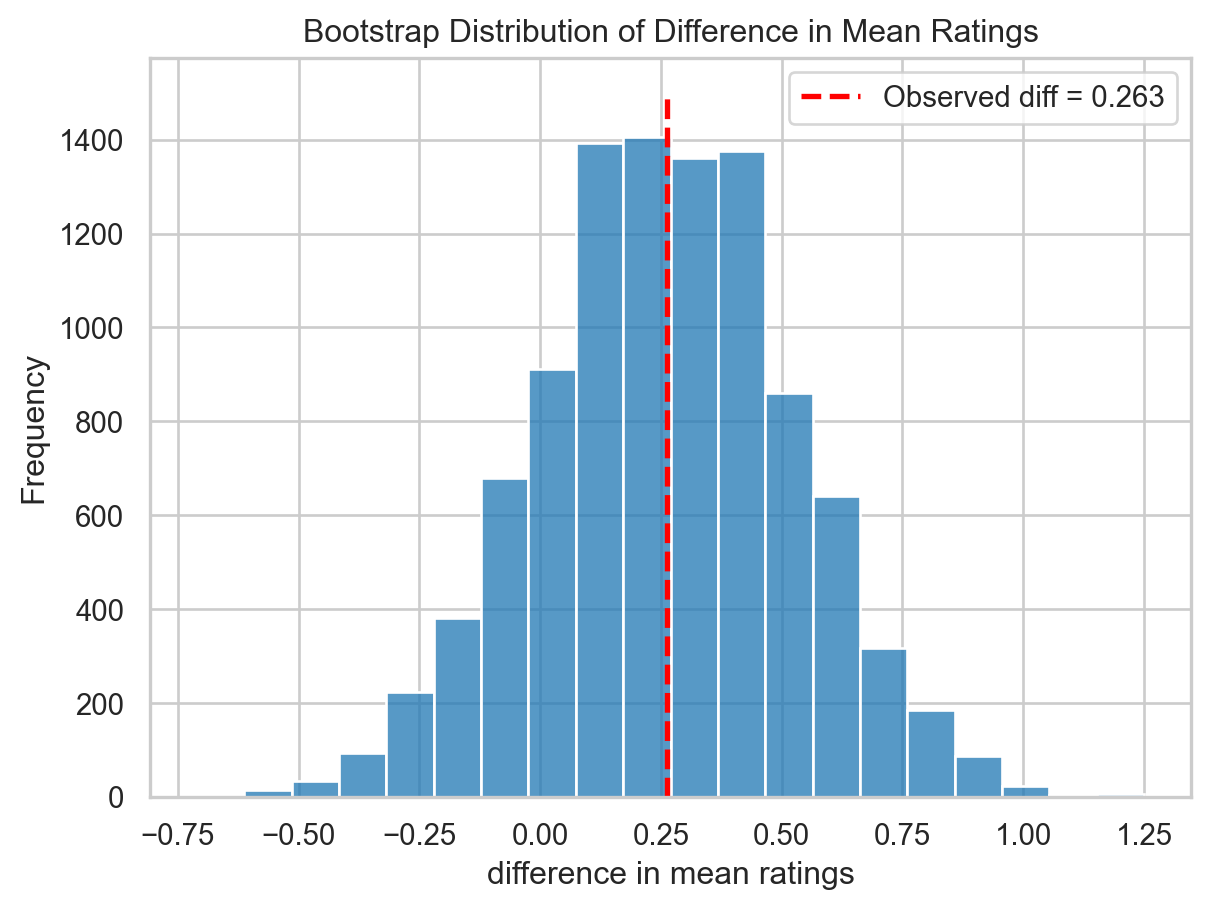
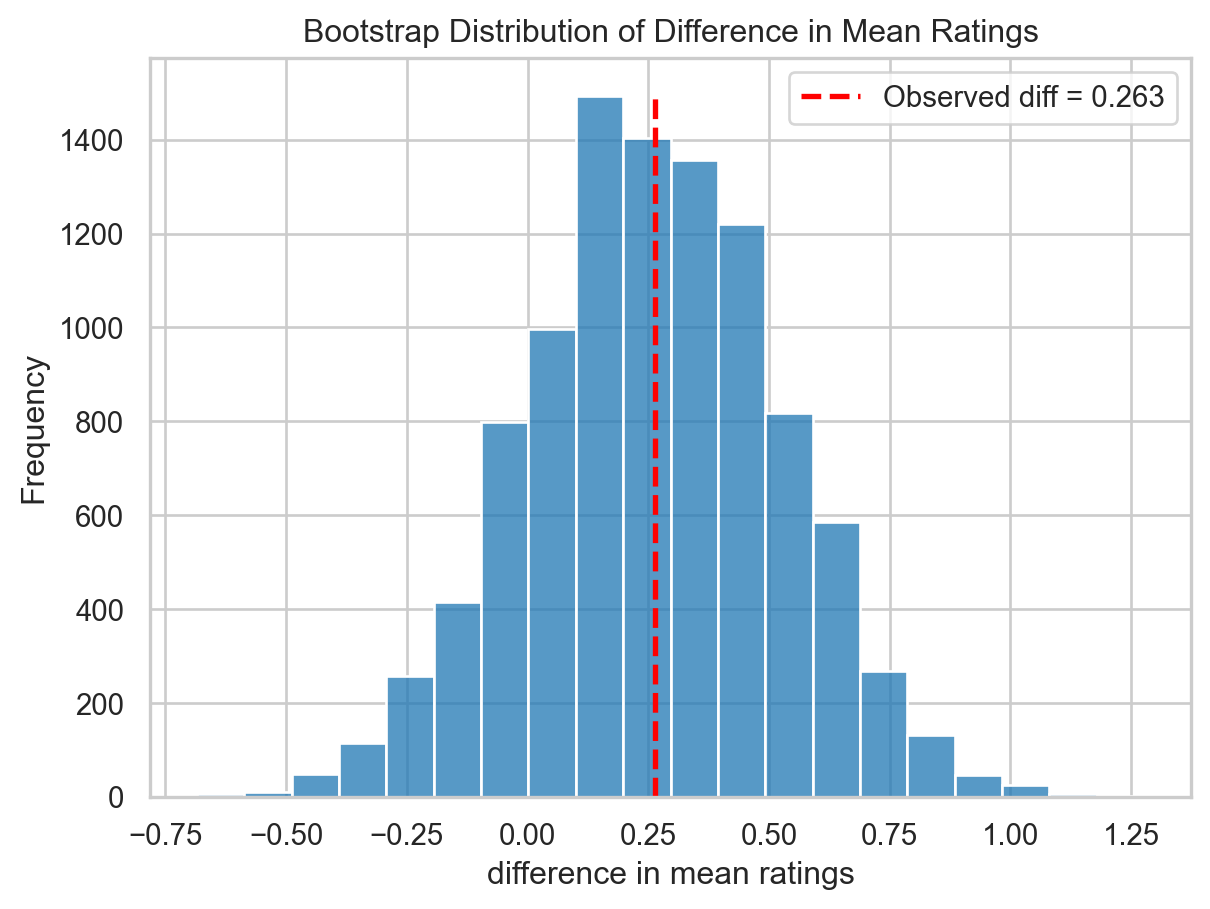
Fix typos/wording and refresh generated docs/assets: correct hierarchical/mixture spellings, adjust wording, update cell IDs and file-modified timestamp, update bootstrap p-value, replace figure, and regenerate search index.

diff --git a/docs/posts/ratings_inference/index.html b/docs/posts/ratings_inference/index.html
@@ -198,7 +198,7 @@ window.Quarto = {
   <div>
     <div class="abstract">
       <div class="block-title">Abstract</div>
-      <p>We develop a hierarchical beta-binomial model for likelihood based inference on brand preferences from rating data. The approach captures user preference heterogeneity through beta-distributed random effects, uses closed-form PMF computation for computational efficiency, and employs profile likelihood methods for formal inference. A reparameterization in terms of log odds-ratio directly targets the comparative parameter of interest. Applied to electronics ratings (Apple vs.&nbsp;Philips), we demonstrate three complementary inference methods—bootstrap testing, hierarchical estimation, and profile likelihood—that reach consistent conclusions about brand differences.</p>
+      <p>We develop a hierarchical beta-binomial model for likelihood based inference on brand preferences from rating data. The approach captures user preference heterogeneity through beta-distributed random effects, uses closed-form PMF computation for computational efficiency, and employs profile likelihood methods for formal inference. A reparameterization in terms of log odds-ratio directly targets the comparative parameter of interest. Applied to electronics ratings (Apple vs.&nbsp;Philips), we demonstrate complementary approaches: bootstrap testing and hierarchical estimation that reach consistent conclusions about brand differences.</p>
     </div>
   </div>
   
@@ -236,12 +236,12 @@ window.Quarto = {
 
 <section id="introduction" class="level2">
 <h2 class="anchored" data-anchor-id="introduction">Introduction</h2>
-<p>Product ratings are commonly used to assess brand preference, but summarizing and comparing ratings is challenging because user ratings reflect variability and randomness in individual user preferences. Some users are naturally generous raters while others are harsh. Traditional summary statistics like mean ratings ignore this heterogeneity which can lead to misleading conclusions. <br> Using electronics product rating dataset, this article first explores a simple bootstrap based rating comparison. The limitation of such a model are highlighted. <br> As an introduction to the proposed heirarchical model a beta-binomial model <span class="citation" data-cites="in_all_likelihood">(<a href="#ref-in_all_likelihood" role="doc-biblioref">Pawitan 2013</a>)</span> for a single brand is presented, that explicitly captures how individual user preferences vary, enabling estimation of the underlying distribution of rating propensity for a given brand. <br> Building on it, a richer model that capture variability in preferences for 2 brands simultaneously is developed. A reparameterisation using the log of odds-ratio enables direct modeling of the parameter of interest which is a comparative measure of favourability between the 2 brands. Throughout the study, the parameter choices are governed by considering likelihood profile and the values that maximise it.</p>
+<p>Product ratings are commonly used to assess brand preference, but summarizing and comparing ratings is challenging because user ratings reflect variability and randomness in individual user preferences. Some users are naturally generous raters while others are harsh. Traditional summary statistics like mean ratings ignore this heterogeneity which can lead to misleading conclusions. <br> Using electronics product rating dataset, this article first explores a simple bootstrap based rating comparison. The limitation of such a model are highlighted. <br> As an introduction to the proposed hierarchical model a beta-binomial model <span class="citation" data-cites="in_all_likelihood">(<a href="#ref-in_all_likelihood" role="doc-biblioref">Pawitan 2013</a>)</span> for a single brand is presented, that explicitly captures how individual user preferences vary, enabling estimation of the underlying distribution of rating propensity for a given brand. <br> Building on it, a richer model that capture variability in preferences for 2 brands simultaneously is developed. A reparameterisation using the log of odds-ratio enables direct modeling of the parameter of interest which is a comparative measure of favourability between the 2 brands. Throughout the study, the parameter choices are governed by considering likelihood profile and the values that maximise it.</p>
 </section>
 <section id="data" class="level2">
 <h2 class="anchored" data-anchor-id="data">Data</h2>
 <p>Electronics product rating dataset is used in the study. The dataset contains user ratings for various electronic products, with each rating on a scale from 1-5 (converted to 0-4). For this article a subset of <code>Headphones</code> in the data, from brands <em>Philips and Apple</em> is used. The study focuses on 1 particular product from each of these brands to make a comparative assessment.</p>
-<div id="e95fb781" class="cell" data-execution_count="2">
+<div id="3c4d5e48" class="cell" data-execution_count="2">
 <div class="cell-output cell-output-display">
 <div>
 
@@ -326,7 +326,7 @@ window.Quarto = {
 <section id="eda" class="level3">
 <h3 class="anchored" data-anchor-id="eda">EDA</h3>
 <p>Average ratings for brands is close and it appears that there is some degree of variability in the ratings. This variability can hide true differences between brands.</p>
-<div id="fe2f337e" class="cell" data-execution_count="3">
+<div id="f04fcbad" class="cell" data-execution_count="3">
 <div class="cell-output cell-output-display">
 <div>
 <figure class="figure">
@@ -336,7 +336,7 @@ window.Quarto = {
 </div>
 </div>
 <p>The distribution of ratings for these brands has distinct patterns, while users seem to have more even views on <em>Apple</em> (commonly rate 0 to 3), Philips has a more favourable set of ratings with fewer 0 Stars proportionally.</p>
-<div id="6306fb34" class="cell" data-execution_count="4">
+<div id="95c9fad6" class="cell" data-execution_count="4">
 <div class="cell-output cell-output-display">
 <div>
 <figure class="figure">
@@ -345,7 +345,7 @@ window.Quarto = {
 </div>
 </div>
 </div>
-<p>There is visible overlap of standard errors and so at this point it is hard to say which brand is more favourably rated given the variability.</p>
+<p>There is visible overlap of standard errors and so at this point it is hard to say which brand is more favorably rated given the variability.</p>
 </section>
 </section>
 <section id="analysis" class="level2">
@@ -353,7 +353,7 @@ window.Quarto = {
 <section id="baseline-approach" class="level3">
 <h3 class="anchored" data-anchor-id="baseline-approach">Baseline approach</h3>
 <p>To establish a sensible baseline for comparing ratings, a simulation can be set up such that sampling ratings for each brand and then comparing differences in their mean gives us an intuitive and meaningful picture about what to expect in data. <br></p>
-<div id="97267fd0" class="cell" data-execution_count="5">
+<div id="4756160e" class="cell" data-execution_count="5">
 <div class="cell-output cell-output-display">
 <div>
 <figure class="figure">
@@ -365,7 +365,7 @@ window.Quarto = {
 <pre><code>
 Bootstrap Test Results:
   Observed difference (Philips - Apple): 0.2632
-  Two-tailed p-value: 0.5340
+  Two-tailed p-value: 0.5303
   Significant at α=0.05: No
 
 Probability Ratio:
@@ -377,15 +377,15 @@ Probability Ratio:
 <section id="modelling-a-single-brand" class="level3">
 <h3 class="anchored" data-anchor-id="modelling-a-single-brand">Modelling a single brand</h3>
 <p>To build intuition about the underlying distribution of ratings, it can be useful to start by modeling the ratings for a single brand.</p>
-<p>Each user rating x∈{0,…,4} is treated as if it were a binomial count for convenience and user-level probabilities <span class="math inline">\({p_i}\)</span> are modelled with a Beta prior. This is a working approximation that gives useful shrinkage and interpretable parameters, not a claim that ratings are literally counts of 5 binary trials. This assumption implies that brand ratings are essentially a mixtue of binomials <span class="citation" data-cites="in_all_likelihood">(<a href="#ref-in_all_likelihood" role="doc-biblioref">Pawitan 2013</a>)</span></p>
-<p>A binomial model assumes <span class="math inline">\(y \sim \text{Binomial}(n, p)\)</span>, where <span class="math inline">\(p\)</span> is the probability of a favorable rating. The likelihood is <span class="math inline">\(L(p) = p^y(1-p)^{n-y}\)</span>, with MLE <span class="math inline">\(\hat{p} = y/n\)</span> <span class="citation" data-cites="statistical_inference">(<a href="#ref-statistical_inference" role="doc-biblioref">George Casella 2002</a>)</span></p>
-<p>Extending this line of thinking it is clear that the underlying binomial parameter (p) is the favourability of the given brand for users. Higher the p, more favourable the brand and expectedly it should have higher ratings.</p>
+<p>Each user rating x∈{0,…,4} is treated as if it were a binomial count for convenience and user-level probabilities <span class="math inline">\({p_i}\)</span> are modelled with a Beta prior. This is a working approximation that gives useful shrinkage and interpretable parameters, not a claim that ratings are literally counts of 5 binary trials. This assumption implies that brand ratings are essentially a mixture of binomials <span class="citation" data-cites="in_all_likelihood">(<a href="#ref-in_all_likelihood" role="doc-biblioref">Pawitan 2013</a>)</span></p>
+<p>A binomial model assumes <span class="math inline">\(y \sim \text{Binomial}(n, p)\)</span>, where <span class="math inline">\(p\)</span> is the probability of a favourable rating. The likelihood is <span class="math inline">\(L(p) = p^y(1-p)^{n-y}\)</span>, with MLE <span class="math inline">\(\hat{p} = y/n\)</span> <span class="citation" data-cites="statistical_inference">(<a href="#ref-statistical_inference" role="doc-biblioref">George Casella 2002</a>)</span></p>
+<p>Extending this line of thinking it is clear that the underlying binomial parameter (p) is the favourability of the given brand for users. Higher the p, more favourable the brand and expected it should have higher ratings.</p>
 <p>So, effectively each user has a preference <em>p</em> and the observed ratings are realizations of a binomial process with this underlying probability.</p>
 <p>To model a single user’s preference needs a hierarchical approach, where individual user preferences are drawn from a common distribution, capturing the variability across users. The end result is not just a single value of <em>p</em> for a user but rather a range of possible values with different likelihood based on how the user has rated the product.</p>
 <p>For e.g.&nbsp;if a user who has rated the product <em>3</em> star is considered, then the likelihood of their preference <em>p</em> would be greater (around 0.65 value), but it may still be possible that their preference is some other value with a lower likelihood.</p>
 <p><em>For a refresher on likelihood theory refer <a href="https://prteek.github.io/regression_room/posts/likelihood_primer/">likelihood primer</a></em></p>
-<div id="b1fd1703" class="cell" data-execution_count="6">
-<div class="cell-output cell-output-display" data-execution_count="24">
+<div id="ddbf82d6" class="cell" data-execution_count="6">
+<div class="cell-output cell-output-display" data-execution_count="6">
 <div>
 <figure class="figure">
 <p><img src="index_files/figure-html/cell-7-output-1.png" width="599" height="445" class="figure-img"></p>
@@ -415,7 +415,7 @@ Probability Ratio:
 </section>
 <section id="maximum-likelihood-estimation" class="level4">
 <h4 class="anchored" data-anchor-id="maximum-likelihood-estimation">Maximum Likelihood Estimation</h4>
-<div id="c5d31245" class="cell" data-cache="true" data-execution_count="9">
+<div id="6305995f" class="cell" data-cache="true" data-execution_count="9">
 <div class="cell-output cell-output-stdout">
 <pre><code>Beta-Binomial MLE:
   α = 0.668900
@@ -434,7 +434,7 @@ with standard deviation ±33.5%</code></pre>
 <section id="goodness-of-fit" class="level4">
 <h4 class="anchored" data-anchor-id="goodness-of-fit">Goodness of fit</h4>
 <p>Goodness of fit can be assessed by comparing counts from the Beta-binomial model using MLE estimates, to actual counts at different rating values. The counts are close and model is satisfactory for this data.</p>
-<div id="76595968" class="cell" data-execution_count="10">
+<div id="3f196cb7" class="cell" data-execution_count="10">
 <div class="cell-output cell-output-stdout">
 <pre><code>
 Model check:
@@ -450,14 +450,14 @@ Model check:
 <section id="profile-likelihood-of-p" class="level4">
 <h4 class="anchored" data-anchor-id="profile-likelihood-of-p">Profile likelihood of <em>p</em></h4>
 <p>For Beta-Binomial, we fix E[p] and optimize α.</p>
-<div id="a2ae048c" class="cell" data-cache="true" data-execution_count="11">
+<div id="6d5be806" class="cell" data-cache="true" data-execution_count="11">
 <div class="cell-output cell-output-stdout">
 <pre><code>Profile likelihood MLE: p = 0.657895
 Joint optimization MLE: p = 0.653064
 Difference: 0.004831</code></pre>
 </div>
 </div>
-<div id="1a974b38" class="cell" data-execution_count="12">
+<div id="19282d8d" class="cell" data-execution_count="12">
 <div class="cell-output cell-output-display">
 <div>
 <figure class="figure">
@@ -466,7 +466,7 @@ Difference: 0.004831</code></pre>
 </div>
 </div>
 </div>
-<p>The curve shows a well defined (regular) likelihood profile which peaks at around MLE value. It could also be used to derive confidence interval on <em>p</em> using likelihod based intervals if required.</p>
+<p>The curve shows a well defined (regular) likelihood profile which peaks at around MLE value. It could also be used to derive confidence interval on <em>p</em> using likelihood based intervals if required.</p>
 </section>
 </section>
 <section id="comparing-apple-and-philips" class="level3">
@@ -474,7 +474,7 @@ Difference: 0.004831</code></pre>
 <p>The formulation earlier can be extended to compare the ratings distributions of Apple and Philips by fitting separate Beta-Binomial models for each brand and then comparing the estimated parameters and profile likelihoods. However, a reparameterisation of joint likelihood of both brands can enable estimation of difference in preferences between the two brands directly and efficiently.</p>
 <p>To illustrate this consider only 2 binomial datasets first and their joint likelihood.</p>
 <p><strong>Joint Likelihood of Two Binomial Datasets:</strong></p>
-<p>Let <span class="math inline">\(y_1 \sim \text{Binomial}(n_1, p_1)\)</span> and <span class="math inline">\(y_2 \sim \text{Binomial}(n_2, p_2)\)</span> be the observed counts (favorable ratings) from two brands. The joint likelihood is:</p>
+<p>Let <span class="math inline">\(y_1 \sim \text{Binomial}(n_1, p_1)\)</span> and <span class="math inline">\(y_2 \sim \text{Binomial}(n_2, p_2)\)</span> be the observed counts (favourable ratings) from two brands. The joint likelihood is:</p>
 <p><span class="math display">\[L(p_1, p_2 \mid y_1, y_2) = p_1^{y_1}(1-p_1)^{n_1-y_1} \cdot p_2^{y_2}(1-p_2)^{n_2-y_2}\]</span></p>
 <p><strong>Pawitan’s Reparameterisation for Comparing Proportions:</strong></p>
 <p>Pawitan advocates reparameterising in terms of the <strong>log odds-ratio</strong> <span class="math inline">\(\theta\)</span> (parameter of interest) and <strong>log odds</strong> <span class="math inline">\(\eta\)</span> (nuisance parameter). This reparameterisation is preferred because the likelihood of the log odds-ratio is more regular than alternatives (difference or relative risk), particularly in small samples.</p>
@@ -504,7 +504,7 @@ Difference: 0.004831</code></pre>
 <section id="profile-likelihood-for-comparing-brands" class="level4">
 <h4 class="anchored" data-anchor-id="profile-likelihood-for-comparing-brands">Profile Likelihood for Comparing Brands</h4>
 <p>Following the same structure as the single-brand analysis, we compute the profile likelihood of <span class="math inline">\(\theta\)</span> by fixing it and optimizing over the nuisance parameters.</p>
-<div id="951ba0d3" class="cell" data-execution_count="14">
+<div id="ef922726" class="cell" data-execution_count="14">
 <div class="cell-output cell-output-stdout">
 <pre><code>Computing profile likelihood...
   5/20 complete
@@ -514,7 +514,7 @@ Difference: 0.004831</code></pre>
 MLE: θ = 0.315789</code></pre>
 </div>
 </div>
-<div id="bd869afb" class="cell" data-execution_count="15">
+<div id="eb31dae3" class="cell" data-execution_count="15">
 <div class="cell-output cell-output-stdout">
 <pre><code>
 95% Likelihood-based Confidence Interval for θ:
@@ -522,7 +522,7 @@ MLE: θ = 0.315789</code></pre>
   Excludes zero: False</code></pre>
 </div>
 </div>
-<div id="7fa73022" class="cell" data-execution_count="16">
+<div id="6d6e7d80" class="cell" data-execution_count="16">
 <div class="cell-output cell-output-display">
 <div>
 <figure class="figure">
@@ -531,7 +531,7 @@ MLE: θ = 0.315789</code></pre>
 </div>
 </div>
 </div>
-<div id="f15c3328" class="cell" data-execution_count="17">
+<div id="fa0c7896" class="cell" data-execution_count="17">
 <div class="cell-output cell-output-stdout">
 <pre><code>
 Profile Likelihood Summary:
@@ -551,7 +551,7 @@ Profile Likelihood Summary:
 </section>
 <section id="cross-method-consistency" class="level3">
 <h3 class="anchored" data-anchor-id="cross-method-consistency">Cross-method Consistency</h3>
-<div id="8b43ab9e" class="cell" data-execution_count="18">
+<div id="cf92fc00" class="cell" data-execution_count="18">
 <div class="cell-output cell-output-stdout">
 <pre><code>Consistency Check: Data vs. Profile Likelihood
 

diff --git a/docs/index.html b/docs/index.html
@@ -210,7 +210,7 @@ window.Quarto = {
     </div>
 </div>
 <div class="list quarto-listing-default">
-<div class="quarto-post image-right" data-index="0" data-categories="aW5mZXJlbmNlJTJDbGlrZWxpaG9vZCUyQ2Rpc3BlcnNpb24=" data-listing-date-sort="1776207600000" data-listing-file-modified-sort="1780914673652" data-listing-date-modified-sort="NaN" data-listing-reading-time-sort="18" data-listing-word-count-sort="3461">
+<div class="quarto-post image-right" data-index="0" data-categories="aW5mZXJlbmNlJTJDbGlrZWxpaG9vZCUyQ2Rpc3BlcnNpb24=" data-listing-date-sort="1776207600000" data-listing-file-modified-sort="1780917724383" data-listing-date-modified-sort="NaN" data-listing-reading-time-sort="18" data-listing-word-count-sort="3461">
 <div class="thumbnail"><a href="./posts/ratings_inference/index.html" class="no-external">
 
 <img loading="lazy" src="./posts/ratings_inference/ratings.png" class="thumbnail-image">
